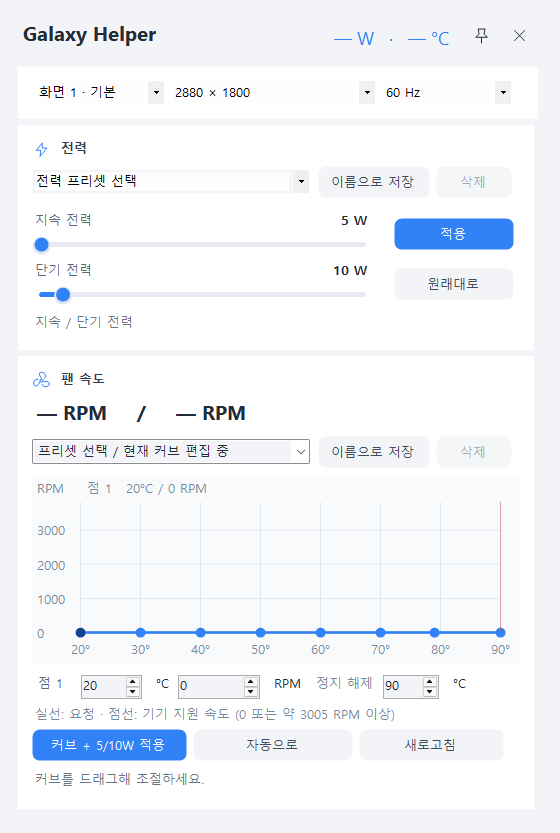
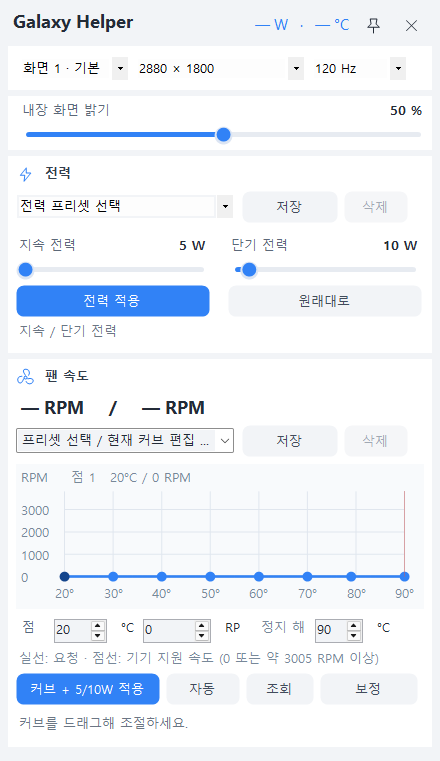
Add internal display brightness slider and reduce panel footprint

diff --git a/hardware/CompactUi.cs b/hardware/CompactUi.cs
@@ -17,14 +17,14 @@ namespace GalaxyHardware
         readonly Color accent=Color.FromArgb(49,130,246);
         FlowLayoutPanel Card(FlowLayoutPanel parent,string title)
         {
-            var card=new RoundedCard {Width=520,AutoSize=true,AutoSizeMode=AutoSizeMode.GrowAndShrink,FlowDirection=FlowDirection.TopDown,WrapContents=false,Padding=new Padding(8),BackColor=surface,Margin=new Padding(0,0,0,6)};
+            var card=new RoundedCard {Width=424,AutoSize=true,AutoSizeMode=AutoSizeMode.GrowAndShrink,FlowDirection=FlowDirection.TopDown,WrapContents=false,Padding=new Padding(8),BackColor=surface,Margin=new Padding(0,0,0,6)};
             parent.Controls.Add(card);
             var heading=new Panel();heading.Controls.Add(new PictureBox {Image=PanelIcons.Draw(title=="전력"?"power":"fan",accent,18),Bounds=new Rectangle(0,1,18,18)});heading.Controls.Add(new Label {Text=title,ForeColor=Color.FromArgb(51,61,75),Font=new Font(Font,FontStyle.Bold),Bounds=new Rectangle(26,1,200,20)});Line(card,heading,24);
             return card;
         }
         static void Line(FlowLayoutPanel parent,Control control,int height)
-        { control.Size=new Size(488,height); control.Margin=new Padding(0,0,0,3); parent.Controls.Add(control); }
-        FlowLayoutPanel Row() { return new FlowLayoutPanel {Width=488,Height=36,Margin=new Padding(0,0,0,3),WrapContents=false}; }
+        { control.Size=new Size(408,height); control.Margin=new Padding(0,0,0,3); parent.Controls.Add(control); }
+        FlowLayoutPanel Row() { return new FlowLayoutPanel {Width=408,Height=36,Margin=new Padding(0,0,0,3),WrapContents=false}; }
         Button QuickButton(string text,int width,Action action)
         { var b=new SoftButton(); Style(b,text,width); b.FlatAppearance.BorderSize=0; b.Margin=new Padding(0,0,6,0); b.Click+=delegate { action(); }; return b; }
         void Number(NumericUpDown n,int width)
@@ -32,24 +32,24 @@ namespace GalaxyHardware
         void BuildCompactUi()
         {
             Text="Galaxy Helper";Font=new Font("맑은 고딕",9.5f);BackColor=Color.FromArgb(242,244,247);ForeColor=Color.FromArgb(35,43,55);
-            AutoScaleMode=AutoScaleMode.Dpi;ClientSize=new Size(560,700);MinimumSize=new Size(556,0);FormBorderStyle=FormBorderStyle.None;MaximizeBox=false;StartPosition=FormStartPosition.CenterScreen;
+            AutoScaleMode=AutoScaleMode.Dpi;ClientSize=new Size(440,640);MinimumSize=new Size(440,0);FormBorderStyle=FormBorderStyle.None;MaximizeBox=false;StartPosition=FormStartPosition.CenterScreen;
             var stack=new FlowLayoutPanel {Dock=DockStyle.Fill,Padding=new Padding(8),FlowDirection=FlowDirection.TopDown,WrapContents=false,AutoScroll=false};Controls.Add(stack);
-            var header=new Panel {Width=520,Height=38,Margin=new Padding(0,0,0,6)};
-            header.Controls.Add(new Label {Text="Galaxy Helper",Font=new Font("Segoe UI",15,FontStyle.Bold),Bounds=new Rectangle(0,0,190,38)});
-            measured.Font=new Font("Segoe UI",13);measured.ForeColor=accent;measured.TextAlign=ContentAlignment.MiddleRight;measured.Bounds=new Rectangle(194,0,244,38);header.Controls.Add(measured);stack.Controls.Add(header);
+            var header=new Panel {Width=424,Height=32,Margin=new Padding(0,0,0,6)};
+            header.Controls.Add(new Label {Text="Galaxy Helper",Font=new Font("Segoe UI",13,FontStyle.Bold),Bounds=new Rectangle(0,0,150,32)});
+            measured.Font=new Font("Segoe UI",11);measured.ForeColor=accent;measured.TextAlign=ContentAlignment.MiddleRight;measured.Bounds=new Rectangle(146,0,200,32);header.Controls.Add(measured);stack.Controls.Add(header);
             Shown+=delegate {FitWithoutScroll(stack);};
-            BuildRefreshRow(stack);
+            BuildRefreshRow(stack);BuildBrightnessRow(stack);
             var power=Card(stack,"전력");
             BuildPowerPresets(power);
             Configure(pl1,15);Configure(pl2,20);Number(pl1,78);Number(pl2,78);
-            var watts=new Panel {Width=488,Height=100,Margin=new Padding(0,4,0,4)};
-            watts.Controls.Add(new WattSlider("지속 전력",pl1){Location=new Point(0,0),Font=Font});watts.Controls.Add(new WattSlider("단기 전력",pl2){Location=new Point(0,50),Font=Font});
-            Style(apply,"적용",120);apply.BackColor=accent;apply.ForeColor=Color.White;apply.Location=new Point(362,9);watts.Controls.Add(apply);Style(restore,"원래대로",120);restore.Location=new Point(362,59);watts.Controls.Add(restore);power.Controls.Add(watts);
+            var watts=new Panel {Width=408,Height=84,Margin=new Padding(0,4,0,4)};
+            watts.Controls.Add(new WattSlider("지속 전력",pl1){Location=new Point(0,0),Width=194,Font=Font});watts.Controls.Add(new WattSlider("단기 전력",pl2){Location=new Point(212,0),Width=194,Font=Font});
+            Style(apply,"전력 적용",194);apply.BackColor=accent;apply.ForeColor=Color.White;apply.Location=new Point(0,51);watts.Controls.Add(apply);Style(restore,"원래대로",194);restore.Location=new Point(212,51);watts.Controls.Add(restore);power.Controls.Add(watts);
             status.ForeColor=Color.FromArgb(107,118,132);status.AutoEllipsis=true;Line(power,status,20);
-            var fan=Card(stack,"팬 속도");fanReading.Font=new Font("Segoe UI",15,FontStyle.Bold);Line(fan,fanReading,36);
-            curveDetails=new FlowLayoutPanel {Width=488,AutoSize=true,AutoSizeMode=AutoSizeMode.GrowAndShrink,FlowDirection=FlowDirection.TopDown,WrapContents=false,Margin=Padding.Empty};fan.Controls.Add(curveDetails);BuildInlineCurve(curveDetails);curveDetails.Visible=true;
-            var controls=Row();Style(curveButton,inlineGraph!=null && inlineGraph.Curve.IsZeroHold?"0 RPM + 5/10W 적용":"커브 적용",155);curveButton.BackColor=accent;curveButton.ForeColor=Color.White;curveButton.Click+=delegate {ApplyInlineCurve();};controls.Controls.Add(curveButton);
-            Style(fanAuto,"자동으로",115);controls.Controls.Add(fanAuto);Style(fanRefresh,"새로고침",88);controls.Controls.Add(fanRefresh);Style(fanSetup,"정밀 보정",94);controls.Controls.Add(fanSetup);fan.Controls.Add(controls);
+            var fan=Card(stack,"팬 속도");fanReading.Font=new Font("Segoe UI",13,FontStyle.Bold);Line(fan,fanReading,28);
+            curveDetails=new FlowLayoutPanel {Width=408,AutoSize=true,AutoSizeMode=AutoSizeMode.GrowAndShrink,FlowDirection=FlowDirection.TopDown,WrapContents=false,Margin=Padding.Empty};fan.Controls.Add(curveDetails);BuildInlineCurve(curveDetails);curveDetails.Visible=true;
+            var controls=Row();Style(curveButton,inlineGraph!=null && inlineGraph.Curve.IsZeroHold?"0 RPM + 5/10W 적용":"커브 적용",144);curveButton.BackColor=accent;curveButton.ForeColor=Color.White;curveButton.Click+=delegate {ApplyInlineCurve();};controls.Controls.Add(curveButton);
+            Style(fanAuto,"자동",74);controls.Controls.Add(fanAuto);Style(fanRefresh,"조회",68);controls.Controls.Add(fanRefresh);Style(fanSetup,"보정",98);controls.Controls.Add(fanSetup);fan.Controls.Add(controls);
             fanControlStatus.ForeColor=Color.FromArgb(107,118,132);fanControlStatus.AutoEllipsis=true;Line(fan,fanControlStatus,24);
             fanSetup.Click+=delegate {OpenFanSetup();};fanSetup.AccessibleName="팬 정밀 보정 및 검증";
             detailsTip.SetToolTip(fanSetup,"팬 단계 측정 · RPM 목표 유지 · 자동 복귀 검증 · 약 7~9분");

diff --git a/hardware/WattSlider.cs b/hardware/WattSlider.cs
@@ -7,25 +7,25 @@ namespace GalaxyHardware
     sealed class WattSlider : Control
     {
         readonly NumericUpDown input;
-        readonly string caption;
-        public WattSlider(string title,NumericUpDown source)
+        readonly string caption,unit;
+        public WattSlider(string title,NumericUpDown source,string suffix="W")
         {
-            caption=title;input=source;Height=48;Width=340;TabStop=true;Cursor=Cursors.Hand;AccessibleName=title+" 전력 제한";
+            caption=title;unit=suffix;input=source;Height=48;Width=340;TabStop=true;Cursor=Cursors.Hand;AccessibleName=title+(suffix=="W"?" 전력 제한":"");
             SetStyle(ControlStyles.UserPaint|ControlStyles.AllPaintingInWmPaint|ControlStyles.OptimizedDoubleBuffer|ControlStyles.Selectable,true);
-            input.ValueChanged+=delegate {AccessibleDescription=input.Value.ToString("0.#")+" W";Invalidate();};
+            input.ValueChanged+=delegate {AccessibleDescription=input.Value.ToString("0.#")+" "+unit;Invalidate();};
         }
         internal void ExerciseDrag(int x){OnMouseDown(new MouseEventArgs(MouseButtons.Left,1,x,35,0));OnMouseUp(new MouseEventArgs(MouseButtons.Left,1,x,35,0));}
-        void MoveValue(int x) {double ratio=Math.Max(0,Math.Min(1,(x-9.0)/(Width-18)));input.Value=Math.Round((input.Minimum+(decimal)ratio*(input.Maximum-input.Minimum))*2)/2;}
+        void MoveValue(int x) {double ratio=Math.Max(0,Math.Min(1,(x-9.0)/(Width-18)));input.Value=Math.Max(input.Minimum,Math.Min(input.Maximum,Math.Round((input.Minimum+(decimal)ratio*(input.Maximum-input.Minimum))/input.Increment)*input.Increment));}
         protected override void OnMouseDown(MouseEventArgs e){base.OnMouseDown(e);if(e.Button==MouseButtons.Left){Focus();Capture=true;MoveValue(e.X);}}
         protected override void OnMouseMove(MouseEventArgs e){base.OnMouseMove(e);if(Capture)MoveValue(e.X);}
         protected override void OnMouseUp(MouseEventArgs e){base.OnMouseUp(e);Capture=false;}
         protected override bool IsInputKey(Keys keyData){return keyData==Keys.Left||keyData==Keys.Right||keyData==Keys.Home||keyData==Keys.End||base.IsInputKey(keyData);}
-        protected override void OnKeyDown(KeyEventArgs e){base.OnKeyDown(e);decimal delta=e.Shift?5:0.5m;if(e.KeyCode==Keys.Left)input.Value=Math.Max(input.Minimum,input.Value-delta);else if(e.KeyCode==Keys.Right)input.Value=Math.Min(input.Maximum,input.Value+delta);else if(e.KeyCode==Keys.Home)input.Value=input.Minimum;else if(e.KeyCode==Keys.End)input.Value=input.Maximum;else return;e.Handled=true;}
+        protected override void OnKeyDown(KeyEventArgs e){base.OnKeyDown(e);decimal delta=e.Shift?input.Increment*10:input.Increment;if(e.KeyCode==Keys.Left)input.Value=Math.Max(input.Minimum,input.Value-delta);else if(e.KeyCode==Keys.Right)input.Value=Math.Min(input.Maximum,input.Value+delta);else if(e.KeyCode==Keys.Home)input.Value=input.Minimum;else if(e.KeyCode==Keys.End)input.Value=input.Maximum;else return;e.Handled=true;}
         protected override void OnPaint(PaintEventArgs e)
         {
             var g=e.Graphics;g.SmoothingMode=SmoothingMode.AntiAlias;
             TextRenderer.DrawText(g,caption,Font,new Rectangle(0,0,Width/2,23),Color.FromArgb(92,104,120),TextFormatFlags.Left|TextFormatFlags.VerticalCenter);
-            using(var bold=new Font(Font,FontStyle.Bold))TextRenderer.DrawText(g,input.Value.ToString("0.#")+" W",bold,new Rectangle(Width/2,0,Width/2,23),Color.FromArgb(35,43,55),TextFormatFlags.Right|TextFormatFlags.VerticalCenter);
+            using(var bold=new Font(Font,FontStyle.Bold))TextRenderer.DrawText(g,input.Value.ToString("0.#")+" "+unit,bold,new Rectangle(Width/2,0,Width/2,23),Color.FromArgb(35,43,55),TextFormatFlags.Right|TextFormatFlags.VerticalCenter);
             float x=9+(Width-18)*(float)((input.Value-input.Minimum)/(input.Maximum-input.Minimum));
             using(var rail=new Pen(Color.FromArgb(231,235,241),5))using(var active=new Pen(Color.FromArgb(49,130,246),5)) {
                 rail.StartCap=rail.EndCap=active.StartCap=active.EndCap=LineCap.Round;g.DrawLine(rail,9,35,Width-9,35);if(x>9)g.DrawLine(active,9,35,x,35);

diff --git a/hardware/BrightnessUi.cs b/hardware/BrightnessUi.cs
@@ -1,0 +1,41 @@
+using System;
+using System.ComponentModel;
+using System.Drawing;
+using System.Management;
+using System.Windows.Forms;
+namespace GalaxyHardware
+{
+    sealed partial class ControlForm
+    {
+        readonly NumericUpDown brightnessValue=new NumericUpDown{Minimum=0,Maximum=100,Increment=1,Value=50};
+        readonly System.Windows.Forms.Timer brightnessDelay=new System.Windows.Forms.Timer{Interval=250};
+        WattSlider brightnessSlider;
+        bool brightnessSync,brightnessBusy,brightnessPending;
+        void BuildBrightnessRow(FlowLayoutPanel stack)
+        {
+            var row=new RoundedCard{Width=424,Height=54,BackColor=surface,Padding=new Padding(8,0,8,0),Margin=new Padding(0,0,0,6)};
+            brightnessSlider=new WattSlider("내장 화면 밝기",brightnessValue,"%"){Width=408,Enabled=false};row.Controls.Add(brightnessSlider);stack.Controls.Add(row);
+            brightnessValue.ValueChanged+=delegate{if(brightnessSync||smokeMode)return;brightnessDelay.Stop();brightnessDelay.Start();};
+            brightnessDelay.Tick+=delegate{brightnessDelay.Stop();if(brightnessBusy){brightnessPending=true;return;}RunBrightness(true);};
+            Shown+=delegate{if(!smokeMode)RunBrightness(false);};
+            detailsTip.SetToolTip(brightnessSlider,"내장 화면 밝기 · 드래그하면 적용");
+        }
+        void RunBrightness(bool write)
+        {
+            if(brightnessBusy||IsDisposed)return;brightnessBusy=true;byte requested=(byte)brightnessValue.Value;
+            var worker=new BackgroundWorker();worker.DoWork+=delegate(object sender,DoWorkEventArgs e){
+                var options=new EnumerationOptions{Timeout=TimeSpan.FromSeconds(3)};
+                using(var search=new ManagementObjectSearcher("root\\wmi","SELECT * FROM WmiMonitorBrightness WHERE Active=TRUE",options))using(var results=search.Get()) {
+                    string instance=null;byte current=0;foreach(ManagementObject item in results)using(item){if(instance!=null)throw new InvalidOperationException("밝기 대상 화면이 여러 개라 변경하지 않았습니다.");instance=(string)item["InstanceName"];current=Convert.ToByte(item["CurrentBrightness"]);}
+                    if(instance==null)throw new InvalidOperationException("Windows 밝기 제어를 지원하는 내장 화면이 없습니다.");
+                    if(write)using(var methods=new ManagementObjectSearcher("root\\wmi","SELECT * FROM WmiMonitorBrightnessMethods",options))using(var entries=methods.Get()) {
+                        bool found=false;foreach(ManagementObject entry in entries)using(entry){if((string)entry["InstanceName"]!=instance)continue;var output=entry.InvokeMethod("WmiSetBrightness",new object[]{(uint)0,requested});if(output!=null&&Convert.ToUInt32(output)!=0)throw new InvalidOperationException("밝기 변경을 Windows가 거부했습니다.");found=true;}
+                        if(!found)throw new InvalidOperationException("밝기 변경 인터페이스가 없습니다.");
+                    }
+                    e.Result=write?requested:current;
+                }
+            };
+            worker.RunWorkerCompleted+=delegate(object sender,RunWorkerCompletedEventArgs e){brightnessBusy=false;if(!IsDisposed){if(e.Error!=null){detailsTip.SetToolTip(brightnessSlider,e.Error.Message);if(write)NotifyError(e.Error.Message);}else{brightnessSlider.Enabled=true;if(!write){brightnessSync=true;brightnessValue.Value=Convert.ToDecimal(e.Result);brightnessSync=false;}}if(brightnessPending){brightnessPending=false;RunBrightness(true);}}worker.Dispose();};worker.RunWorkerAsync();
+        }
+    }
+}

diff --git a/hardware/InlineCurveUi.cs b/hardware/InlineCurveUi.cs
@@ -73,18 +73,18 @@ namespace GalaxyHardware
                 FanCurve curve;
                 try {curve=previewCalibration==null?FanCurve.Load(inlineProfile):FanCurve.Default(inlineProfile);}
                 catch(Exception ex) {curve=FanCurve.Default(inlineProfile);fanControlStatus.Text="이전 커브를 읽을 수 없어 기본 커브를 표시합니다: "+ex.Message;}
-                inlineGraph=new CurveGraph(curve,inlineProfile){Width=488,Height=190,Margin=new Padding(0,0,0,6)};
+                inlineGraph=new CurveGraph(curve,inlineProfile){Width=408,Height=145,Margin=new Padding(0,0,0,6)};
                 savedCurveSignature=curve.Signature;
                 BuildPresetRow(parent);
                 parent.Controls.Add(inlineGraph);
                 var row=Row();row.Height=32;
-                curveSelection.Width=43;curveSelection.Padding=new Padding(0,4,0,0);curveSelection.ForeColor=Color.FromArgb(85,104,127);row.Controls.Add(curveSelection);
-                curveTemperature.Minimum=20;curveTemperature.Maximum=90;curveTemperature.Increment=1;Number(curveTemperature,61);curveTemperature.AccessibleName="선택점 온도";row.Controls.Add(curveTemperature);
+                curveSelection.Width=26;curveSelection.Padding=new Padding(0,4,0,0);curveSelection.ForeColor=Color.FromArgb(85,104,127);row.Controls.Add(curveSelection);
+                curveTemperature.Minimum=20;curveTemperature.Maximum=90;curveTemperature.Increment=1;Number(curveTemperature,53);curveTemperature.AccessibleName="선택점 온도";row.Controls.Add(curveTemperature);
                 row.Controls.Add(new Label {Text="°C",Width=22,Padding=new Padding(0,4,0,0)});
-                curveRpm.Minimum=0;curveRpm.Maximum=FanCurve.Round(inlineProfile.Entries[2].ConservativeRpm);curveRpm.Increment=50;Number(curveRpm,82);curveRpm.AccessibleName="선택점 RPM";row.Controls.Add(curveRpm);
+                curveRpm.Minimum=0;curveRpm.Maximum=FanCurve.Round(inlineProfile.Entries[2].ConservativeRpm);curveRpm.Increment=50;Number(curveRpm,68);curveRpm.AccessibleName="선택점 RPM";row.Controls.Add(curveRpm);
                 row.Controls.Add(new Label {Text="RPM",Width=36,Padding=new Padding(0,4,0,0)});
-                row.Controls.Add(new Label {Text="정지 해제",Width=67,Padding=new Padding(0,4,0,0),ForeColor=Color.LightSlateGray});
-                curveCutoff.Minimum=45;curveCutoff.Maximum=90;curveCutoff.Value=90;Number(curveCutoff,56);curveCutoff.AccessibleName="팬 정지 해제 온도";row.Controls.Add(curveCutoff);
+                row.Controls.Add(new Label {Text="정지 해제",Width=54,Padding=new Padding(0,4,0,0),ForeColor=Color.LightSlateGray});
+                curveCutoff.Minimum=45;curveCutoff.Maximum=90;curveCutoff.Value=90;Number(curveCutoff,48);curveCutoff.AccessibleName="팬 정지 해제 온도";row.Controls.Add(curveCutoff);
                 row.Controls.Add(new Label {Text="°C",Width=22,Padding=new Padding(0,4,0,0)});parent.Controls.Add(row);
                 bool syncing=false;
                 Action changed=delegate {

diff --git a/hardware/DisplayRefresh.cs b/hardware/DisplayRefresh.cs
@@ -88,9 +88,9 @@ namespace GalaxyHardware
         }
         void BuildRefreshRow(FlowLayoutPanel stack)
         {
-            var row=new RoundedCard{Width=520,Height=52,Padding=new Padding(14,10,14,10),BackColor=surface,Margin=new Padding(0,0,0,6)};
-            resolutionPicker.DropDownStyle=ComboBoxStyle.DropDownList;resolutionPicker.FlatStyle=FlatStyle.Flat;resolutionPicker.Width=205;resolutionPicker.AccessibleName="같은 화면 비율 해상도";
-            displayPicker.DropDownStyle=refreshPicker.DropDownStyle=ComboBoxStyle.DropDownList;displayPicker.FlatStyle=refreshPicker.FlatStyle=FlatStyle.Flat;displayPicker.Width=130;refreshPicker.Width=130;displayPicker.AccessibleName="주사율 변경 대상 화면";refreshPicker.AccessibleName="화면 주사율";
+            var row=new RoundedCard{Width=424,Height=44,Padding=new Padding(8,7,8,7),BackColor=surface,Margin=new Padding(0,0,0,6)};
+            resolutionPicker.DropDownStyle=ComboBoxStyle.DropDownList;resolutionPicker.FlatStyle=FlatStyle.Flat;resolutionPicker.Width=170;resolutionPicker.AccessibleName="같은 화면 비율 해상도";
+            displayPicker.DropDownStyle=refreshPicker.DropDownStyle=ComboBoxStyle.DropDownList;displayPicker.FlatStyle=refreshPicker.FlatStyle=FlatStyle.Flat;displayPicker.Width=110;refreshPicker.Width=96;displayPicker.AccessibleName="주사율 변경 대상 화면";refreshPicker.AccessibleName="화면 주사율";
             displayPicker.FormattingEnabled=true;displayPicker.Format+=delegate(object sender,ListControlConvertEventArgs e){string name=e.ListItem as string;var screens=Screen.AllScreens;int index=Array.FindIndex(screens,x=>x.DeviceName==name);e.Value="화면 "+(index+1)+(index>=0 && screens[index].Primary?" · 기본":"");};
             refreshPicker.Format+=delegate(object sender,ListControlConvertEventArgs e){e.Value=e.ListItem+" Hz";};refreshPicker.FormattingEnabled=true;
             row.Controls.Add(displayPicker);row.Controls.Add(resolutionPicker);row.Controls.Add(refreshPicker);stack.Controls.Add(row);

diff --git a/hardware/PresetUi.cs b/hardware/PresetUi.cs
@@ -24,13 +24,13 @@ namespace GalaxyHardware
         void BuildPresetRow(FlowLayoutPanel parent)
         {
             var row=Row();
-            presetPicker.DropDownStyle=ComboBoxStyle.DropDownList;presetPicker.Width=278;presetPicker.Margin=new Padding(0,3,8,0);presetPicker.AccessibleName="팬 커브 프리셋";
+            presetPicker.DropDownStyle=ComboBoxStyle.DropDownList;presetPicker.Width=218;presetPicker.Margin=new Padding(0,3,8,0);presetPicker.AccessibleName="팬 커브 프리셋";
             presetPicker.BackColor=Color.FromArgb(242,244,247);presetPicker.ForeColor=ForeColor;presetPicker.FlatStyle=FlatStyle.Flat;
             presetPicker.DrawMode=DrawMode.OwnerDrawFixed;
 presetPicker.DrawItem+=delegate(object sender,DrawItemEventArgs e){if(e.Index<0)return;using(var brush=new SolidBrush((e.State & DrawItemState.Selected)!=0?Color.FromArgb(221,235,255):presetPicker.BackColor))e.Graphics.FillRectangle(brush,e.Bounds);TextRenderer.DrawText(e.Graphics,presetPicker.Items[e.Index].ToString(),Font,e.Bounds,ForeColor,TextFormatFlags.VerticalCenter|TextFormatFlags.EndEllipsis);};
             row.Controls.Add(presetPicker);
-            Style(savePresetButton,"이름으로 저장",112);row.Controls.Add(savePresetButton);
-            Style(deletePresetButton,"삭제",76);row.Controls.Add(deletePresetButton);
+            Style(savePresetButton,"저장",96);row.Controls.Add(savePresetButton);
+            Style(deletePresetButton,"삭제",64);row.Controls.Add(deletePresetButton);
             try {userPresets=previewCalibration==null?FanPresetStore.Load(PresetStoragePath,inlineProfile):new FanPresetStore {Version=1,Items=new System.Collections.Generic.List<NamedFanPreset>()};}
             catch(Exception ex){userPresets=null;savePresetButton.Enabled=false;fanControlStatus.Text="프리셋 읽기 실패: "+ex.Message;}
             RefreshPresetPicker(null);

diff --git a/hardware/PowerPresets.cs b/hardware/PowerPresets.cs
@@ -42,8 +42,8 @@ namespace GalaxyHardware
         }
         void BuildPowerPresets(FlowLayoutPanel parent)
         {
-            var row=Row();powerPicker.DropDownStyle=ComboBoxStyle.DropDownList;powerPicker.FlatStyle=FlatStyle.Flat;powerPicker.BackColor=Color.FromArgb(242,244,247);powerPicker.Width=278;powerPicker.Margin=new Padding(0,3,8,0);powerPicker.AccessibleName="전력 프리셋";row.Controls.Add(powerPicker);
-            Style(powerSave,"이름으로 저장",112);Style(powerDelete,"삭제",76);row.Controls.Add(powerSave);row.Controls.Add(powerDelete);parent.Controls.Add(row);
+            var row=Row();powerPicker.DropDownStyle=ComboBoxStyle.DropDownList;powerPicker.FlatStyle=FlatStyle.Flat;powerPicker.BackColor=Color.FromArgb(242,244,247);powerPicker.Width=218;powerPicker.Margin=new Padding(0,3,8,0);powerPicker.AccessibleName="전력 프리셋";row.Controls.Add(powerPicker);
+            Style(powerSave,"저장",96);Style(powerDelete,"삭제",64);row.Controls.Add(powerSave);row.Controls.Add(powerDelete);parent.Controls.Add(row);
             try {powerPresets=smokeMode?new PowerPresetStore{Version=1,Items=new List<PowerPreset>()}:PowerPresetStore.Load(PowerPresetStore.PathName);}catch(Exception ex){powerSave.Enabled=false;status.Text="프리셋 읽기 실패: "+ex.Message;}
             RefreshPowerPresets();
             powerPicker.SelectedIndexChanged+=delegate {if(pickingPower)return;var p=powerPicker.SelectedItem as PowerPreset;if(p==null)return;pickingPower=true;pl1.Value=p.Sustained;pl2.Value=p.Burst;pickingPower=false;powerDelete.Enabled=powerPicker.SelectedIndex>=5;status.Text="불러옴 · 적용하면 반영됩니다.";};

diff --git a/hardware/TrayPanel.cs b/hardware/TrayPanel.cs
@@ -49,10 +49,10 @@ namespace GalaxyHardware
         {
             FormBorderStyle=FormBorderStyle.None;ShowInTaskbar=false;StartPosition=FormStartPosition.Manual;KeyPreview=true;
             panelIcon=PanelIcons.Tray();Icon=panelIcon;tray.Icon=panelIcon;
-            var pin=QuickButton("",30,delegate {});pin.Location=new Point(448,1);
+            var pin=QuickButton("",30,delegate {});pin.Location=new Point(350,1);
             pin.AccessibleName="패널 고정";pin.Image=PanelIcons.Draw("pin",ForeColor);pin.BackColor=surface;
             pin.Click+=delegate {panelPinned=!panelPinned;TopMost=panelPinned;pin.BackColor=panelPinned?Color.FromArgb(210,228,255):surface;detailsTip.SetToolTip(pin,panelPinned?"고정 해제":"패널 고정");};
-            var close=QuickButton("",30,delegate {Hide();});close.Location=new Point(486,1);close.Image=PanelIcons.Draw("close",ForeColor);close.BackColor=surface;close.AccessibleName="트레이로 접기";
+            var close=QuickButton("",30,delegate {Hide();});close.Location=new Point(388,1);close.Image=PanelIcons.Draw("close",ForeColor);close.BackColor=surface;close.AccessibleName="트레이로 접기";
             detailsTip.SetToolTip(pin,"패널 고정");detailsTip.SetToolTip(close,"트레이로 접기 · 제어는 계속됩니다");header.Controls.Add(pin);header.Controls.Add(close);
             Shown+=delegate {PositionPanel();};
             Deactivate+=delegate {if(!smokeMode)dismissTimer.Start();};

diff --git a/hardware/ControlForm.cs b/hardware/ControlForm.cs
@@ -395,7 +395,7 @@ namespace GalaxyHardware
             if (disposing && !hardwareDisposed)
             {
                 hardwareDisposed = true; StopFan(); fanTimer.Dispose(); timer.Dispose(); tray.Dispose();
-                detailsTip.Dispose();dismissTimer.Dispose();if(panelIcon!=null)panelIcon.Dispose();
+                brightnessDelay.Dispose();detailsTip.Dispose();dismissTimer.Dispose();if(panelIcon!=null)panelIcon.Dispose();
                 if (mmio != null) mmio.Dispose(); if(msr!=null) msr.Dispose();
             }
             base.Dispose(disposing);

diff --git a/docs/CURVE-EDITOR.ko.md b/docs/CURVE-EDITOR.ko.md
@@ -54,3 +54,7 @@ API 참고: https://learn.microsoft.com/en-us/windows/win32/api/winuser/nf-winus
 전력과 팬 커브는 실제 적용 성공 후 last-applied.json에 기록합니다. 프리셋 저장이나 편집 중 값은 제외합니다. 처음에는 원하는 전력과 커브를 한 번 적용하세요. 종료 및 설정 복원은 현재 제어를 복원하면서 다음 로그인용 기록을 남깁니다. 자동 팬 복귀를 직접 선택하면 저장된 커브 자동 적용은 해제됩니다. 고정 단계/RPM 목표는 자동 복원 대상에 포함하지 않습니다.
 드라이버·센서·보정 유효성·온도 조건을 검사하며, 복원 기록이 남아 있으면 자동으로 덮어쓰지 않습니다. 등록/해제 실기 검증, 저장/재로드 테스트 완료. 실제 재부팅 후 제어 재적용은 미검증입니다.
 자동 시작용 앱 사본을 업데이트하려면 새 앱에서 체크를 해제한 뒤 다시 켜세요.
+
+## 밝기 및 작은 패널
+내장 화면 밝기 슬라이더를 추가했습니다. WMI에서 활성 내장 패널 하나를 확인한 경우에만 활성화하며, 외장 모니터 DDC/CI는 지원하지 않습니다. 드래그 중 입력을 250ms 묶어 백그라운드에서 처리합니다. 기본 폭은 560에서 440으로 줄이고 전력 슬라이더를 나란히 배치했으며, 커브는 펼친 상태를 유지합니다. 화면 배율에 따라 실제 픽셀 크기는 달라집니다.
+검증: 편집/저장/배치 테스트 15개 통과, 현재 내장 화면 밝기20% 조회 및 동일값 적용/재조회, 단일 EXE 무결성·변조 거부 검사 통과.
